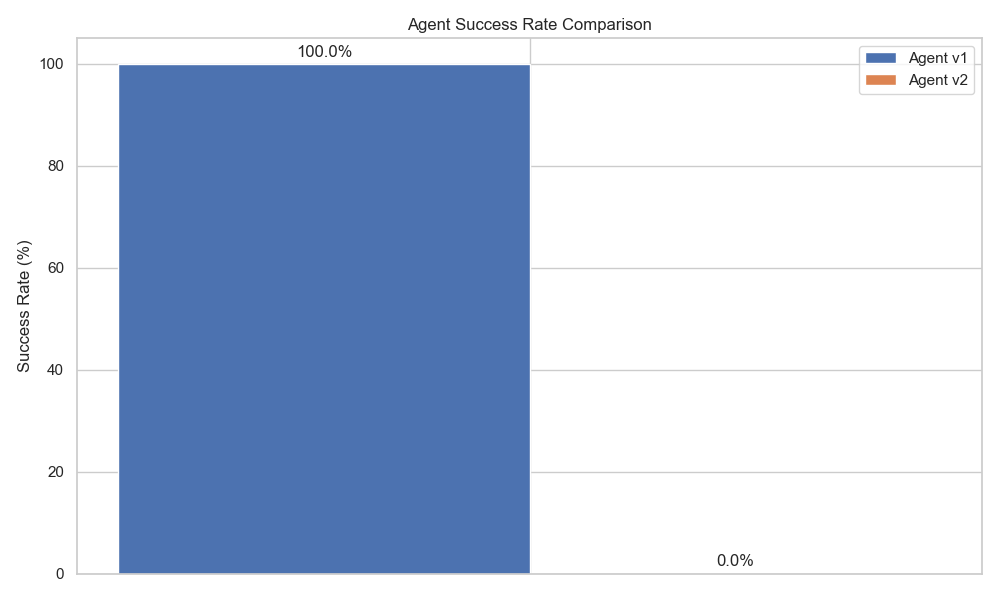
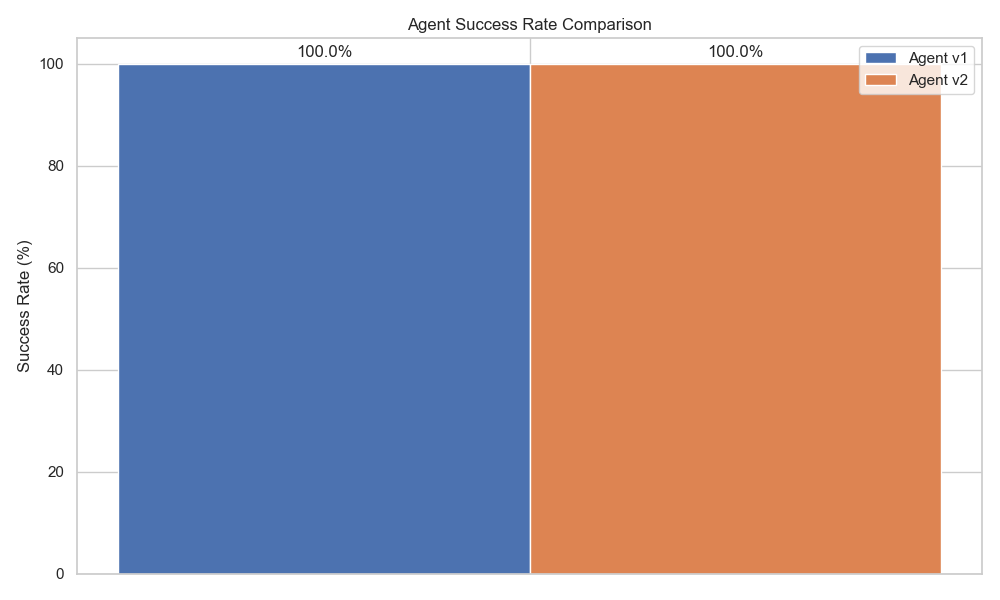
feat: add agent evaluation results with performance metrics and visualizations

diff --git a/results/evaluation_report.md b/results/evaluation_report.md
@@ -1,6 +1,6 @@
 # GitHub Copilot Agent Evaluation Report
 
-Generated at: 2025-06-24T12:25:40.198186
+Generated at: 2025-06-25T19:51:12.429792
 
 ## 📊 Summary
 
@@ -8,8 +8,8 @@ Generated at: 2025-06-24T12:25:40.198186
 |--------|-------|
 | Total Instructions | 5 |
 | Agent v1 Success Rate | 100.0% (5/5) |
-| Agent v2 Success Rate | 0.0% (0/5) |
-| Improvement | -100.0% points |
+| Agent v2 Success Rate | 100.0% (5/5) |
+| Improvement | +0.0% points |
 
 ## 📈 Success Rate Comparison
 
@@ -20,12 +20,12 @@ Generated at: 2025-06-24T12:25:40.198186
 ### Average Metrics
 | Metric | Agent v1 | Agent v2 | Difference |
 |--------|----------|----------|------------|
-| jaccard_similarity | 0.024 | 0.000 | -0.024 |
-| bleu_score | 0.002 | 0.000 | -0.002 |
-| rouge_1 | 0.045 | 0.000 | -0.045 |
-| rouge_2 | 0.008 | 0.000 | -0.008 |
-| rouge_l | 0.042 | 0.000 | -0.042 |
-| response_time (s) | 10.282 | 0.000 | -10.282 |
+| jaccard_similarity | 0.020 | 0.040 | +0.020 |
+| bleu_score | 0.002 | 0.004 | +0.001 |
+| rouge_1 | 0.039 | 0.066 | +0.027 |
+| rouge_2 | 0.005 | 0.013 | +0.007 |
+| rouge_l | 0.038 | 0.066 | +0.028 |
+| response_time (s) | 11.855 | 1.605 | -10.250 |
 
 ![Metrics Comparison](metrics_comparison.png)
 
@@ -35,11 +35,11 @@ Generated at: 2025-06-24T12:25:40.198186
 
 | ID | Type | Difficulty | v1 Success | v2 Success | v1 Jaccard | v2 Jaccard | v1 BLEU | v2 BLEU | v1 ROUGE-L | v2 ROUGE-L | v1 Time (s) | v2 Time (s) |
 |----|------|------------|------------|------------|------------|------------|---------|---------|------------|------------|-------------|-------------|
-| bug_fix_1 | bug_fix | hard | ✅ | ❌ | 0.037 | 0.000 | 0.004 | 0.000 | 0.067 | 0.000 | 4.71 | 0.00 |
-| code_review_1 | code_review | medium | ✅ | ❌ | 0.036 | 0.000 | 0.003 | 0.000 | 0.074 | 0.000 | 9.05 | 0.00 |
-| pr_creation_1 | pr_creation | easy | ✅ | ❌ | 0.008 | 0.000 | 0.001 | 0.000 | 0.016 | 0.000 | 18.27 | 0.00 |
-| refactor_1 | refactoring | easy | ✅ | ❌ | 0.026 | 0.000 | 0.002 | 0.000 | 0.034 | 0.000 | 4.54 | 0.00 |
-| test_case_1 | test_creation | medium | ✅ | ❌ | 0.013 | 0.000 | 0.001 | 0.000 | 0.022 | 0.000 | 14.84 | 0.00 |
+| bug_fix_1 | bug_fix | hard | ✅ | ✅ | 0.023 | 0.052 | 0.004 | 0.008 | 0.043 | 0.085 | 6.03 | 1.19 |
+| code_review_1 | code_review | medium | ✅ | ✅ | 0.037 | 0.047 | 0.004 | 0.004 | 0.077 | 0.100 | 8.64 | 1.38 |
+| pr_creation_1 | pr_creation | easy | ✅ | ✅ | 0.011 | 0.035 | 0.001 | 0.002 | 0.019 | 0.034 | 17.83 | 2.02 |
+| refactor_1 | refactoring | easy | ✅ | ✅ | 0.021 | 0.039 | 0.001 | 0.003 | 0.033 | 0.060 | 6.23 | 1.31 |
+| test_case_1 | test_creation | medium | ✅ | ✅ | 0.009 | 0.026 | 0.001 | 0.002 | 0.017 | 0.049 | 20.55 | 2.13 |
 </details>
 
 ## ⚙ Configuration
@@ -49,7 +49,8 @@ Generated at: 2025-06-24T12:25:40.198186
 ```json
 {
   "agent_v1_endpoint": "https://generativelanguage.googleapis.com/v1beta/models/gemini-2.0-flash:generateContent",
-  "agent_v2_endpoint": "https://api.groq.com/openai/v1/chat/completion/meta-llama/llama-4-maverick-17b-128e-instruct",
+  "agent_v2_endpoint": "https://api.groq.com/openai/v1/chat/completions/meta-llama/llama-4-maverick-17b-128e-instruct",
+  "agent_v2_model": null,
   "api_key_v1": "***REDACTED***",
   "api_key_v2": "***REDACTED***",
   "instructions_file": "instructions.json",
